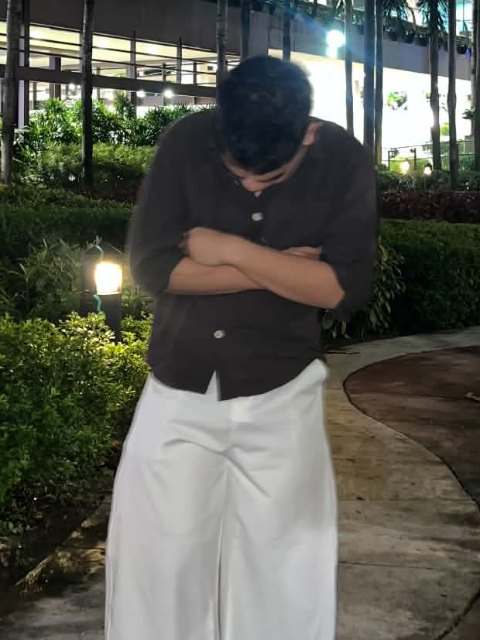
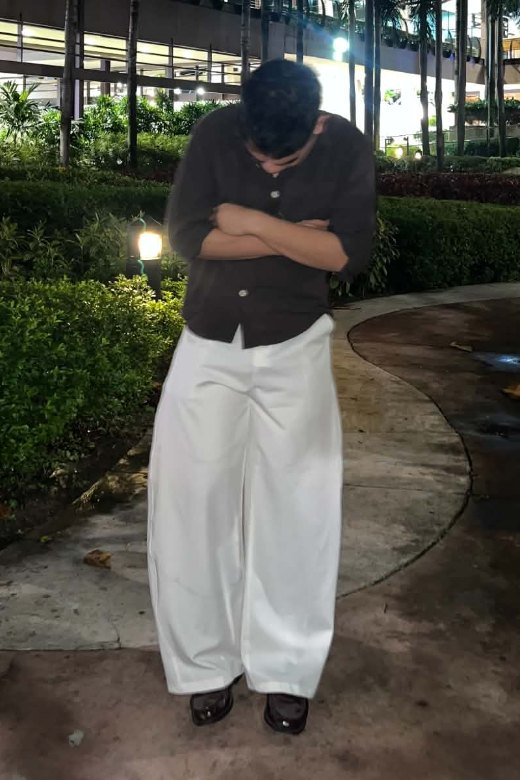
Profile card: show the full photo including shoes, label 'Work in progress'

diff --git a/src/landing/street.tsx b/src/landing/street.tsx
@@ -320,7 +320,7 @@ export const DEVELOPER = {
   photoAlt: { en: 'AceGrant Kyamko standing in a night-lit garden path, head bowed, arms crossed', bis: 'Si AceGrant Kyamko nga nagbarog sa tigom nga dalan sa gabii, nakayuko ug naka-cross ang bukton' },
   role: { en: 'Developer of RentByBob', bis: 'Developer sa RentByBob' } as Bilingual,
   study: { en: 'Computer Engineering (CpE), 3rd–4th year · CIT University', bis: 'Computer Engineering (CpE), ika-3 hangtod ika-4 nga tuig · CIT University' } as Bilingual,
-  aim: { en: 'Aspiring network engineer', bis: 'Gusto mahimong network engineer' } as Bilingual,
+  aim: { en: 'Work in progress', bis: 'Gigtrabaho pa' } as Bilingual,
   note: { en: "Also a tenant at Bob's house", bis: 'Nag-abang sad sa balay ni Bob' } as Bilingual,
   groups: [
     { title: { en: 'Software', bis: 'Software' } as Bilingual, items: ['PHP', 'HTML', 'CSS', 'React', 'TypeScript', 'Supabase', 'and more'] },
@@ -355,7 +355,7 @@ function ProfileCard({ onClose, tr, language }: { onClose: () => void; tr: (engl
     <section id="lp-dev-card" className="dev-card" role="dialog" aria-modal="true" aria-label={tr('Developer profile', 'Profile sa developer')}>
       <button type="button" className="dev-close" ref={closeRef} onClick={onClose} aria-label={tr('Close profile', 'Isira ang profile')}><span aria-hidden="true">×</span></button>
       <figure className="dev-photo">
-        <img src={DEVELOPER.photo} alt={t(DEVELOPER.photoAlt)} width="480" height="640" />
+        <img src={DEVELOPER.photo} alt={t(DEVELOPER.photoAlt)} width="520" height="780" />
         <figcaption><span className="dev-tag">{t(DEVELOPER.note)}</span></figcaption>
       </figure>
       <div className="dev-body">

diff --git a/src/landing/landing.css b/src/landing/landing.css
@@ -485,7 +485,7 @@
 .dev-close:hover { background: rgb(255 191 31 / 25%); }
 .dev-close:focus-visible { outline: 3px solid #ffbf1f; outline-offset: 2px; }
 .dev-photo { position: relative; min-height: 100%; margin: 0; overflow: hidden; background: #0b1f17; }
-.dev-photo img { display: block; width: 100%; height: 100%; min-height: 20rem; object-fit: cover; object-position: 50% 30%; }
+.dev-photo img { display: block; width: 100%; height: 100%; min-height: 20rem; object-fit: contain; object-position: 50% 50%; }
 .dev-photo::after { content: ""; position: absolute; inset: 0; background: linear-gradient(180deg, transparent 55%, rgb(8 20 15 / 78%)); pointer-events: none; }
 .dev-photo figcaption { position: absolute; z-index: 1; left: .9rem; right: .9rem; bottom: .9rem; }
 .dev-tag { display: inline-block; padding: .35rem .8rem; border-radius: 999px; background: #ffbf1f; color: #10201a; font-weight: 800; font-size: .85rem; }
@@ -502,8 +502,8 @@
 @keyframes dev-rise { from { opacity: 0; transform: translateY(14px) scale(.98); } to { opacity: 1; transform: none; } }
 @media (max-width: 44rem) {
   .dev-card { grid-template-columns: 1fr; }
-  .dev-photo { min-height: 0; aspect-ratio: 4 / 3; }
-  .dev-photo img { min-height: 0; object-position: 50% 10%; }
+  .dev-photo { min-height: 0; height: min(56dvh, 28rem); }
+  .dev-photo img { min-height: 0; }
   .dev-body { padding: 1.2rem 1.2rem 1.5rem; }
 }
 @media (prefers-reduced-motion: reduce) { .dev-backdrop, .dev-card { animation: none; } }
